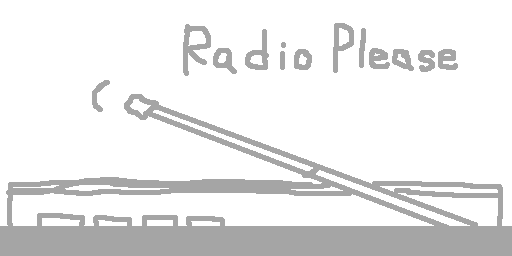
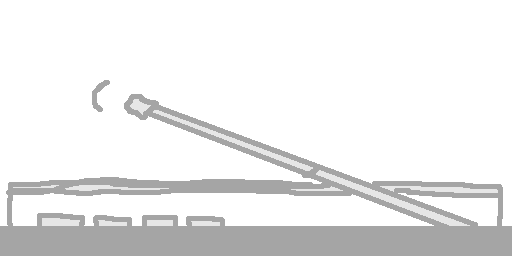
デザイン改修
背景画像追加
イメージを透過
合わせてcssを修正

diff --git a/index.html b/index.html
@@ -11,30 +11,30 @@
         <link rel="stylesheet" href="css/normalize.css" type="text/css" />
         <link rel="stylesheet" href="css/simple.css" type="text/css" />
     </head>
-    <header>
-        <p>Tweet while on air >> 
-            <a href="https://twitter.com/radioplease">twitter</a> / 
-            <a href="https://www.instagram.com/radio.please/">instagram</a> / 
-            <a href="https://radioplease.stores.jp">stores</a>
-        </p>
-        <p>
-            <a href="http://mixlr.com/radioplease/showreel/">archives</a>
-        </p>
-    </header>
     <body>
+        <header>
+            <p>Tweet while on air >> 
+                <a href="https://twitter.com/radioplease">twitter</a> / 
+                <a href="https://www.instagram.com/radio.please/">instagram</a> / 
+                <a href="https://radioplease.stores.jp">stores</a>
+            </p>
+            <p>
+                <a href="http://mixlr.com/radioplease/showreel/">archives</a>
+            </p>
+        </header>
         <div class="player">
-            <img src="images/RadioPlease_NoTitle.gif" alt="Radio Please" title="Radio Please" width="100%">
-            <iframe class="mixlr" src="https://mixlr.com/users/2325324/embed?autoplay=true&artwork=false" width="96%" height="100%" scrolling="no" frameborder="no" marginheight="0" marginwidth="0"></iframe>
-            <div class="secondbox">
+            <img src="images/RadioPlease_NoTitleTrans.gif" alt="Radio Please" title="Radio Please" width="100%">
+            <div class="mixlrbody">
+                <iframe class="mixlr" src="https://mixlr.com/users/2325324/embed?autoplay=true&artwork=false" width="96%" height="100%" scrolling="no" frameborder="no" marginheight="0" marginwidth="0"></iframe>
                 <div class="nextevent">
                     <p>Next on air >> 
                         <a target="_blank" href="https://calendar.google.com/calendar/event?action=TEMPLATE&amp;tmeid=MDhhM3BqZjU1bmZtMGswM2ZybGUycWt2aXMgNjNzczh0Z25naGRkdGgzNGM3MHBxajJibWNAZw&amp;tmsrc=63ss8tgnghddth34c70pqj2bmc%40group.calendar.google.com">
                             RADIO de BURNEY 4/30/sun/1400-1700
                         </a>             
                     </p> 
-                </div>       
+                </div>
             </div>
-
+     
             <img src="images/RadioPleaseBottom.png" alt="Radio Please" title="Radio Please" width="100%">
 
         </div>

diff --git a/css/simple.css b/css/simple.css
@@ -5,11 +5,14 @@
 header {
     margin: auto auto auto auto;
     margin-top: 2%;
-    margin-left: 4%;
-    margin-right: 4%;
+    margin-left: 2%;
+    margin-right: 2%;
+    padding: 1%;
     font-size: small;
     text-align: right;
     font-family: 'Overpass Mono', monospace;
+    border-radius: 3px;
+    background-color: #FFFFFF;
 }
 
 footer {
@@ -22,7 +25,7 @@ footer {
 
 body {
     max-width: 480px;
-    background-color: #FFFFFF;    
+    background: url(../images/RadioPleaseBg.png) repeat center center fixed; 
     margin: auto auto auto auto;
     font-family: 'Overpass Mono', monospace;
 }
@@ -34,30 +37,26 @@ h1, h2 {
     text-align: center;
 }
 
-img {
-    background-color: #FFFFFF;
-}
-
 .wrapper {
     width : 100%;
     height : auto;
 }
 
 .player {
-    background-color: #B4B4B4;
     margin: 3%;
-    border-radius: 3%;
+}
+
+.player .mixlrbody{
+    margin: 0%;
+    padding: 0%;
+    padding-bottom: 1%;
+    background-color: #B4B4B4;
 }
 
 .player iframe{
     margin-bottom: 0%;
     margin-left: 2%;
     margin-right: 2%;
-}
-
-.secondbox {
-    margin-bottom: 2%;
-    background-color: #B4B4B4;
 }
 
 .mixlr {
@@ -77,7 +76,8 @@ img {
 
 .nextevent {
     width: 96%;
-    margin-bottom: 2%;
+    margin-top: 0%;
+    margin-bottom: 2%;    
     margin-right: 2%;
     margin-left: 2%;
     border-radius: 3px;
@@ -88,9 +88,15 @@ img {
             box-shadow: 0 6px 6px -2px #777;
 }
 
+img {
+   margin: 0%;
+   padding: 0%; 
+}
+
 .nextevent p{
     font-size: small;
-    line-height: 1.5em;
+    line-height: 1.2em;
+    margin: 0;
 }
 
 div {
